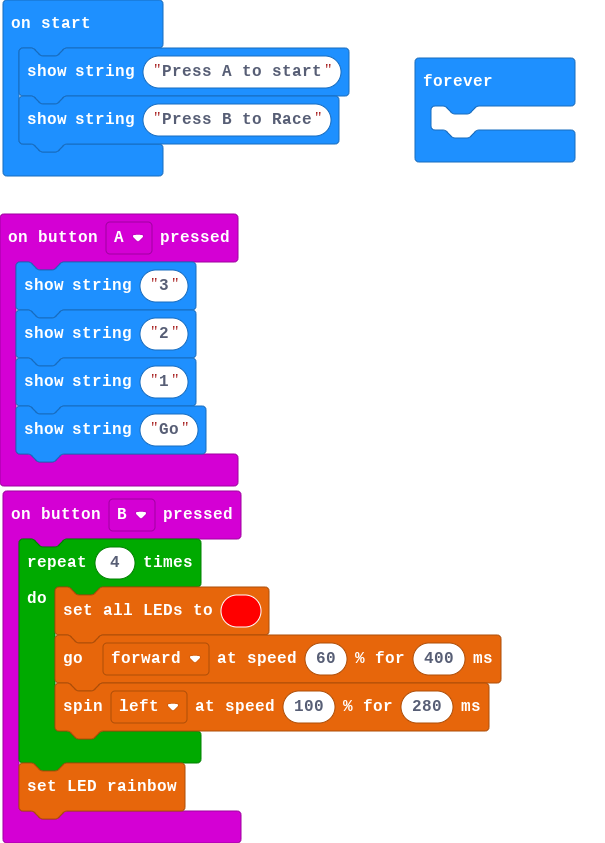
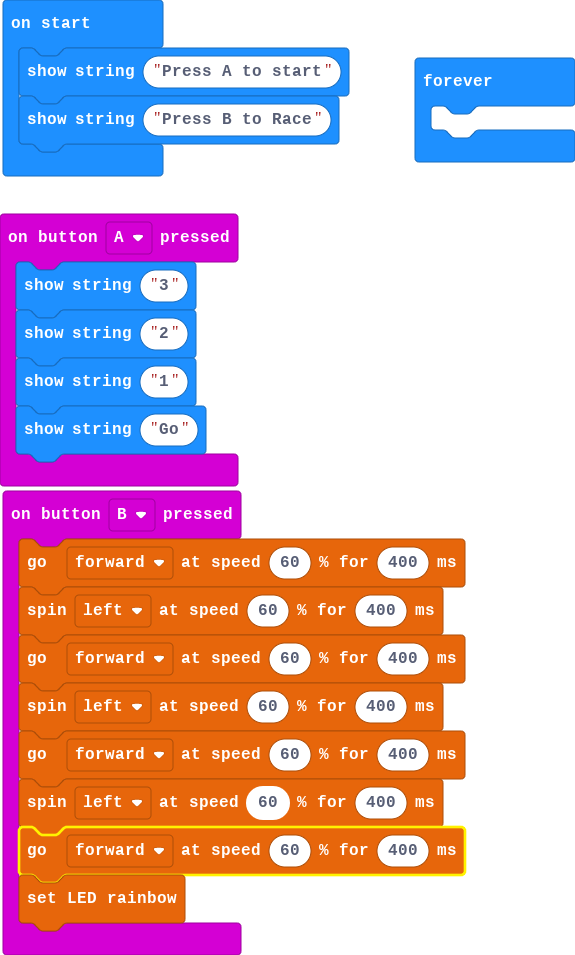
Update pxt.json, main.blocks, main.ts

diff --git a/main.ts b/main.ts
@@ -5,11 +5,13 @@ input.onButtonPressed(Button.A, function () {
     basic.showString("Go")
 })
 input.onButtonPressed(Button.B, function () {
-    for (let index = 0; index < 4; index++) {
-        bitbot.setLedColor(0xFF0000)
-        bitbot.goms(BBDirection.Forward, 60, 400)
-        bitbot.rotatems(BBRobotDirection.Left, 100, 280)
-    }
+    bitbot.goms(BBDirection.Forward, 60, 400)
+    bitbot.rotatems(BBRobotDirection.Left, 60, 400)
+    bitbot.goms(BBDirection.Forward, 60, 400)
+    bitbot.rotatems(BBRobotDirection.Left, 60, 400)
+    bitbot.goms(BBDirection.Forward, 60, 400)
+    bitbot.rotatems(BBRobotDirection.Left, 60, 400)
+    bitbot.goms(BBDirection.Forward, 60, 400)
     bitbot.ledRainbow()
 })
 basic.showString("Press A to start")
